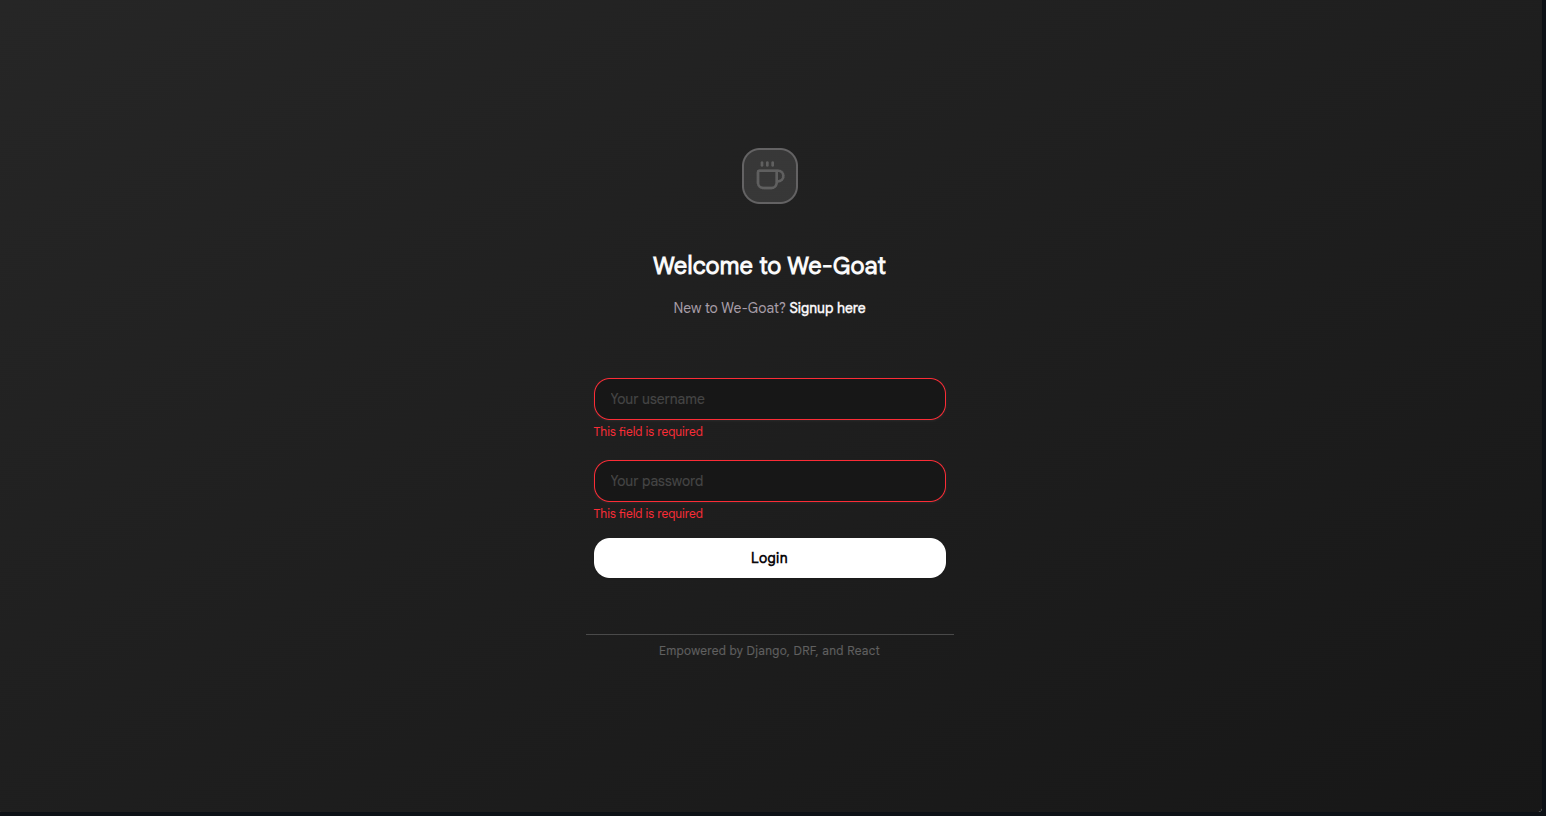
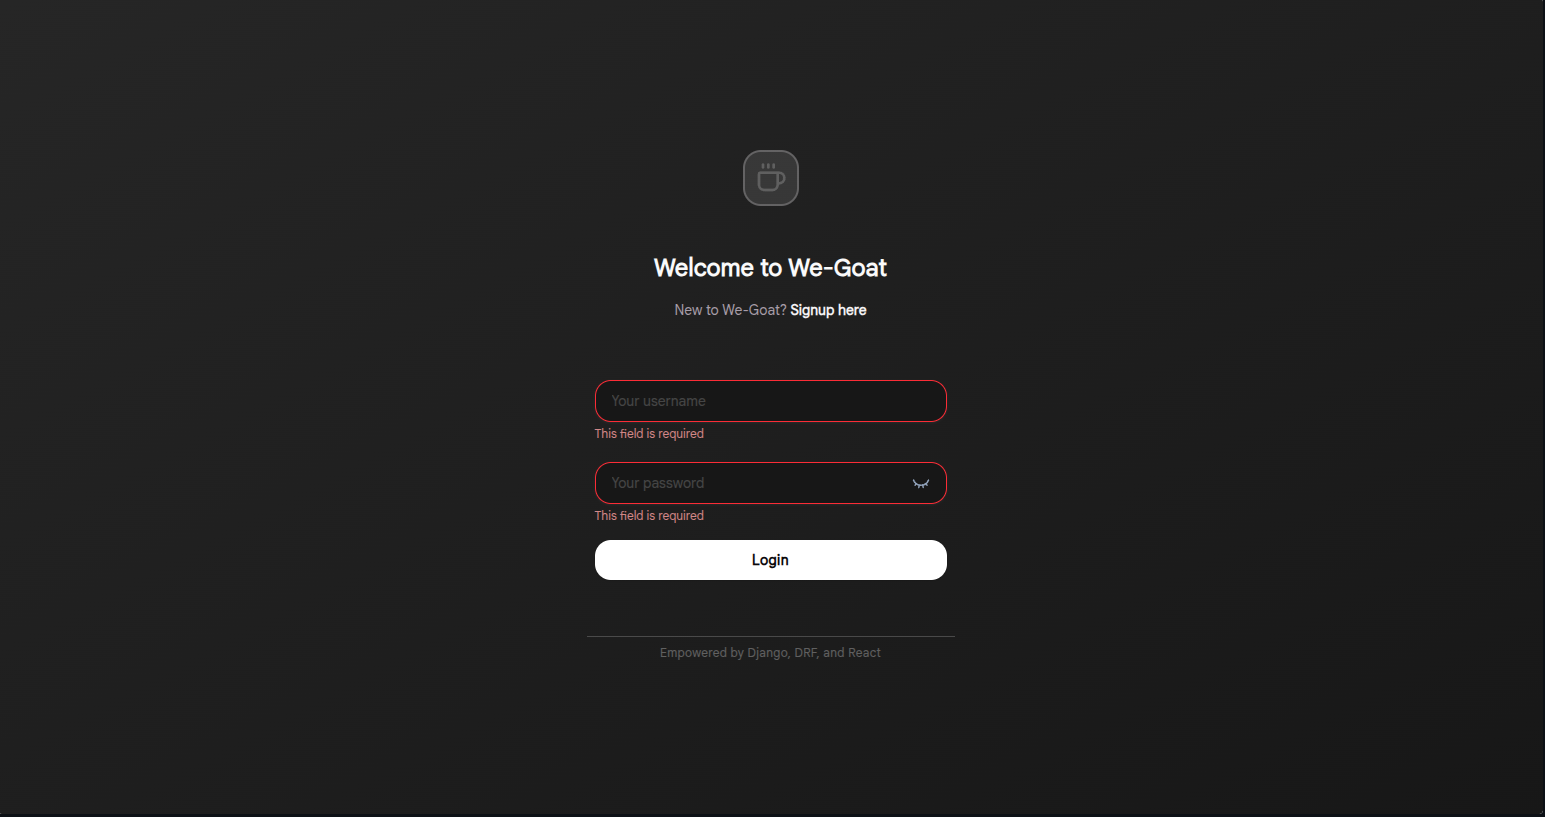
Add password show/hide text. Add more password validation. Auto-handled backend validation errors in the frontend.

diff --git a/frontend/src/features/shared/components/Input.jsx b/frontend/src/features/shared/components/Input.jsx
@@ -1,5 +1,5 @@
-import React from 'react'
-import { X } from 'lucide-react'
+import React, { useState } from 'react'
+import { X, Eye, EyeClosed } from 'lucide-react'
 import cn from '../utils/cn'
 
 const Input = ({ type, name, label, value, error = "Error", placeholder = '', hasCounter = true, isNumber = false, onChange, onClear, className }) => {
@@ -14,6 +14,12 @@ const Input = ({ type, name, label, value, error = "Error", placeholder = '', ha
         onChange(e)
     }
 
+    const [showPassword, setShowPassword] = useState(!type == 'password');
+
+    const handleShowPassword = () => {
+        setShowPassword(prev => !prev)
+    }
+
     return (
         <div className='flex flex-col gap-1 w-full'>
             <div className='flex flex-row justify-between gap-2 items-center text-sm font-medium tracking-wide'>
@@ -24,7 +30,7 @@ const Input = ({ type, name, label, value, error = "Error", placeholder = '', ha
             </div>
             <div className={cn('px-4 py-2.5 rounded-md border border-white/0 shadow-white/5 shadow-xs flex flex-row items-center hover:border-slate-400 transition', error.trim() && 'border-red-500 hover:border-red-400', className)}>
                 <input
-                    type={type}
+                    type={(type == 'password' && showPassword) ? 'text' : type}
                     id={name}
                     name={name}
                     value={value}
@@ -32,13 +38,19 @@ const Input = ({ type, name, label, value, error = "Error", placeholder = '', ha
                     onChange={validateInput}
                     className={cn('focus:outline-none w-full placeholder:text-white/20 placeholder:font-extralight text-white text-sm')}
                 />
-                {value && (
+                {(type == 'text' && value) && (
                     <button type='button' onClick={() => onClear(name)} className='text-xs text-slate-400 cursor-pointer ml-2' aria-label='Clear'>
                         <X size={16} />
                     </button>
                 )}
+
+                {type == 'password' &&
+                    <button type='button' onClick={() => handleShowPassword()} className='text-xs text-slate-400 cursor-pointer ml-2' aria-label='Clear'>
+                        {showPassword ? <Eye size={18} /> : <EyeClosed size={18} />}
+                    </button>
+                }
             </div>
-            {error && <span className="text-red-500 text-xs font-medium">{error}</span>}
+            {error && <span className="text-red-300/80 text-xs">{error}</span>}
         </div>
     )
 }

diff --git a/frontend/src/features/auth/page/Register.jsx b/frontend/src/features/auth/page/Register.jsx
@@ -16,7 +16,7 @@ const Register = () => {
     const navigate = useNavigate();
 
     const [credentials, setCredentials] = useState({
-        firstName: '', lastName: '', email: '', username: '', password: ''
+        firstName: 'Ahlan-nour', lastName: 'Sencio', email: 'hz202300049@wmsu.edu.ph', username: 'supa1dol123', password: 'qwertyui'
     });
 
     const [fieldError, setFieldError] = useState({
@@ -67,12 +67,11 @@ const Register = () => {
         }
     }
 
-    const handleFeedback = (responses) => {
-        const mappedErrors = Object.values(responses).map(messages => ({
-            type: 'error',
-            message: messages.join(', ')
-        }));
-        setFeedback(mappedErrors);
+    const handleFieldError = (key, value) => {
+        setFieldError(prev => {
+            console.log(prev)
+            return { ...prev, [key]: value }
+        })
     }
 
     const handleSubmit = async (e) => {
@@ -89,7 +88,7 @@ const Register = () => {
             if (response.status === 200) {
                 navigate('/login');
             } else if (response.status === 400) {
-                handleFeedback(response.data);
+                Object.entries(response.data).map(([key, value]) => handleFieldError(key, value.join(' ')))
             }
         } catch (error) {
             setFeedback([{ type: 'error', message: 'An unexpected error occurred. Please try again.' }]);

diff --git a/frontend/src/features/shared/components/Feedback.jsx b/frontend/src/features/shared/components/Feedback.jsx
@@ -1,21 +1,9 @@
-import React from 'react'
 import cn from '../utils/cn'
-import { Dot } from 'lucide-react'
 
 const Feedback = ({ feedback }) => {
-    console.log("Feedback: ", feedback)
-
-    const listFeedback = feedback.map(({ type, message }, index) => {
-        if (type && message) return <h5 key={index}
-            className={cn('text-mauve-950 flex items-center', type == 'error' && 'text-red-500')}
-        >
-            <Dot />
-            {message}
-        </h5>
-    })
 
     return (
-        <div className={cn('flex flex-col gap-2 text-xs font-medium tracking-wide')}>{listFeedback}</div>
+        <div className={cn('flex flex-col gap-2 text-sm font-medium tracking-wide', feedback.type == 'success' && 'text-green-500', feedback.type == "error" && 'text-red-600')}>{feedback.message}</div>
     )
 }
 

diff --git a/backend/users/validators.py b/backend/users/validators.py
@@ -1,0 +1,18 @@
+from django.core.exceptions import ValidationError
+
+class HasSpecialCharacterValidator:
+    def validate(self, password, user=None):
+        if not any(char in "`~!@#$%^&*()_+}{}<>/?,." for char in password):
+            raise ValidationError("Password must contain a special character.")
+        
+    def get_help_text(self):
+        return "Your password must contain at least one special character."
+    
+
+class CaseRequirementValidator:
+    def validate(self, password, user=None):
+        if password.lower() == password or password.upper() == password:
+            raise ValidationError("Password must contain at least 1 uppercase and 1 lowercase.")
+        
+    def get_help_text(self):
+        return "Must include both uppercase and lowercase letters."

diff --git a/backend/users/serializers.py b/backend/users/serializers.py
@@ -1,6 +1,7 @@
 from rest_framework import serializers
 from django.contrib.auth.models import User
 from rest_framework_simplejwt.serializers import TokenObtainPairSerializer
+from django.contrib.auth.password_validation import validate_password
 
 class UserSerializer(serializers.ModelSerializer):
     class Meta:
@@ -31,6 +32,7 @@ class UserTokenObtainPairSerializer(TokenObtainPairSerializer):
     
 
 class UserRegisterSerializer(serializers.ModelSerializer):
+    password = serializers.CharField(write_only=True, required=True, validators=[validate_password])
     
     class Meta:
         model = User
@@ -49,3 +51,4 @@ class UserRegisterSerializer(serializers.ModelSerializer):
         user.save()
 
         return user
+    

diff --git a/backend/users/views.py b/backend/users/views.py
@@ -4,6 +4,7 @@ from rest_framework_simplejwt.views import TokenObtainPairView
 from rest_framework import generics
 from rest_framework.permissions import AllowAny, IsAuthenticated
 from .serializers import UserRegisterSerializer, UserTokenObtainPairSerializer, UserSerializer
+from django.contrib.auth import password_validation
 # Create your views here.
 
 class LoginView(TokenObtainPairView):

diff --git a/backend/backend/settings.py b/backend/backend/settings.py
@@ -117,6 +117,12 @@ AUTH_PASSWORD_VALIDATORS = [
     {
         'NAME': 'django.contrib.auth.password_validation.NumericPasswordValidator',
     },
+    {
+        'NAME': 'users.validators.HasSpecialCharacterValidator',
+    },
+    {
+        'NAME': 'users.validators.CaseRequirementValidator',
+    }
 ]
 
 
